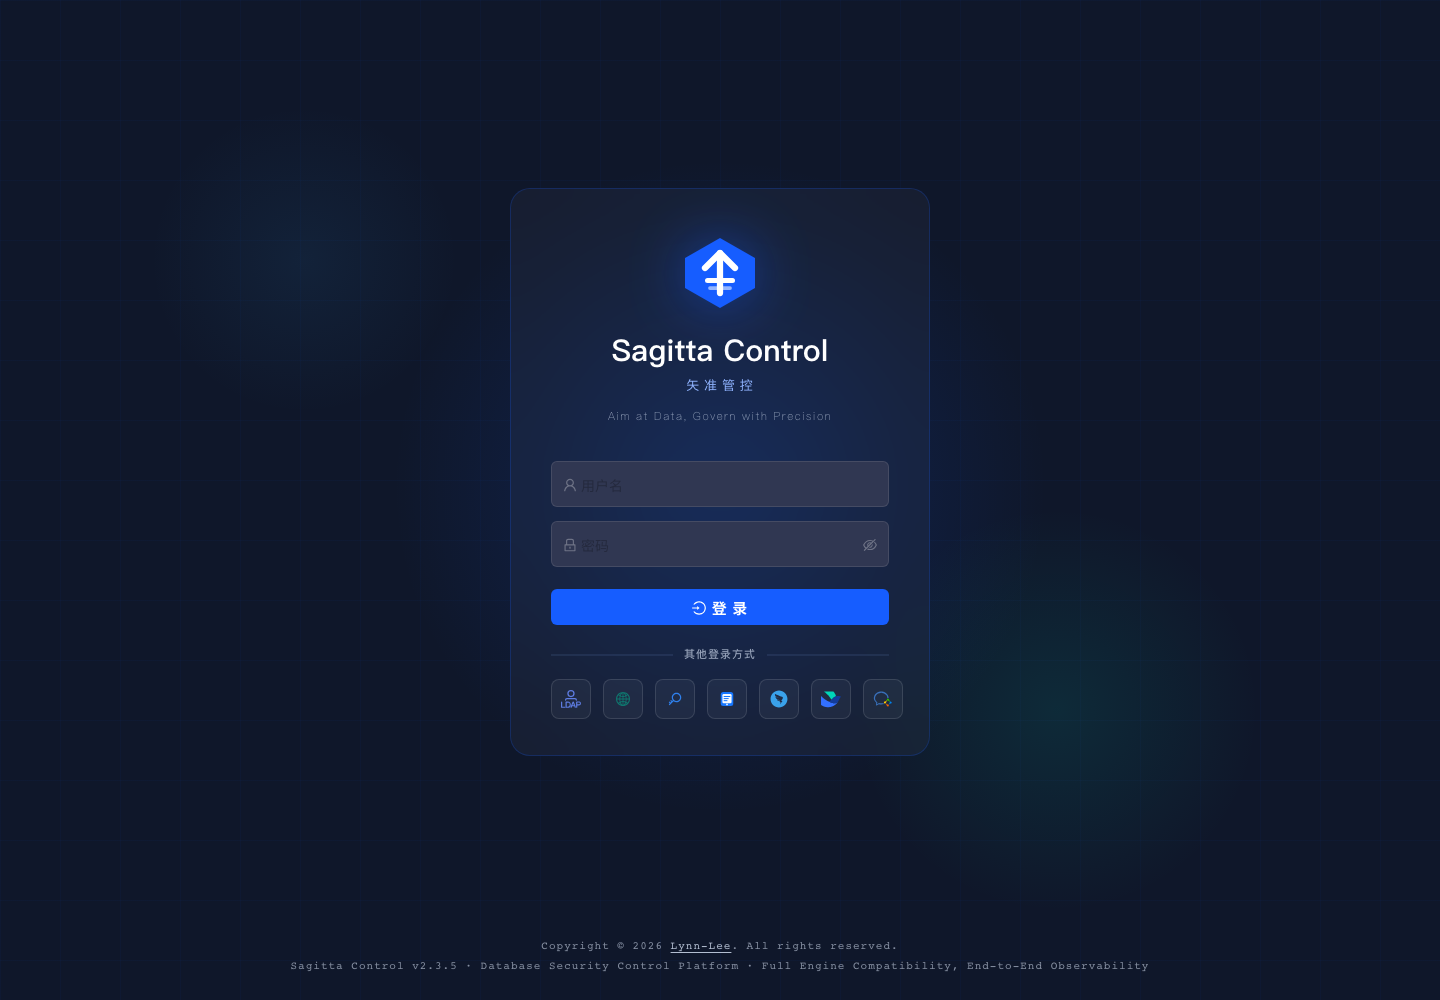
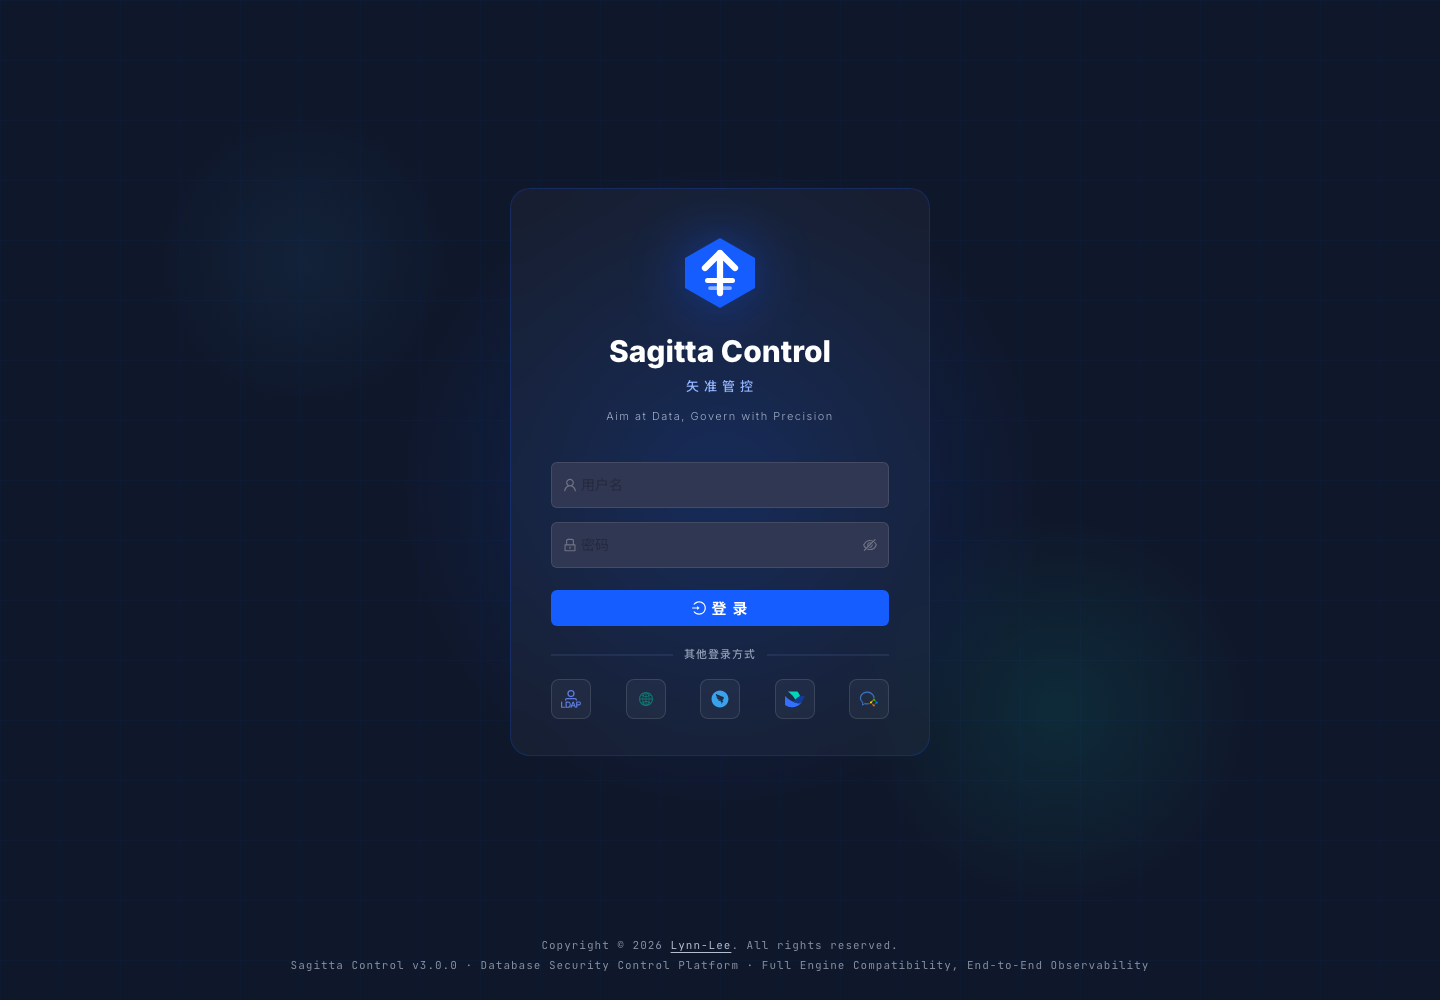
发布 Sagitta Control 3.0.0 版本基线

Changed region(s): [[0.4062, 0.341, 0.5938, 0.434], [0.4062, 0.682, 0.625, 0.713]]

diff --git a/backend/app/main.py b/backend/app/main.py
@@ -40,7 +40,7 @@ logger = logging.getLogger(__name__)
 async def lifespan(app: FastAPI):
     configure_logging()
     verify_startup_integrity()
-    logger.info("Sagitta Control starting env=%s version=2.3.5", settings.APP_ENV)
+    logger.info("Sagitta Control starting env=%s version=3.0.0", settings.APP_ENV)
     yield
     await engine.dispose()
     logger.info("Sagitta Control shutdown complete")
@@ -49,7 +49,7 @@ async def lifespan(app: FastAPI):
 app = FastAPI(
     title="Sagitta Control — 矢准数据库安全管控平台",
     description="企业级数据库安全管控、SQL 工单审核、在线查询、观测中心 API",
-    version="2.3.5",
+    version="3.0.0",
     docs_url="/docs" if settings.APP_ENV == "development" else None,
     redoc_url="/redoc" if settings.APP_ENV == "development" else None,
     lifespan=lifespan,
@@ -134,7 +134,7 @@ app.include_router(sd_router, prefix="/internal", tags=["内部接口"])
 
 @app.get("/health", tags=["健康检查"])
 async def health_check():
-    return {"status": "ok", "version": "2.3.5"}
+    return {"status": "ok", "version": "3.0.0"}
 
 
 @app.get("/", tags=["健康检查"])

diff --git a/backend/app/services/commercial_ops_metadata.py b/backend/app/services/commercial_ops_metadata.py
@@ -5,7 +5,7 @@ from __future__ import annotations
 from pathlib import Path
 from typing import Any
 
-COMMERCIAL_VERSION = "2.3.5"
+COMMERCIAL_VERSION = "3.0.0"
 DEMO_RESOURCE_GROUP_NAME = "commercial_trial_rg"
 DEMO_USER_GROUP_NAME = "commercial_trial_team"
 DEMO_APPROVAL_FLOW_NAME = "商业试用标准审批流"

diff --git a/backend/tests/integration/test_health.py b/backend/tests/integration/test_health.py
@@ -14,7 +14,7 @@ async def test_health_endpoint():
     assert response.status_code == 200
     data = response.json()
     assert data["status"] == "ok"
-    assert data["version"] == "2.3.5"
+    assert data["version"] == "3.0.0"
 
 
 @pytest.mark.asyncio

diff --git a/docs/public_commercial_delivery.md b/docs/public_commercial_delivery.md
@@ -35,10 +35,10 @@ screenshots/
   23-commercial-support.png
   24-audit-log.png
 releases/
-  v2.3.5/
-    Sagitta-Control-v2.3.5.zip
-    Sagitta-Control-v2.3.5.zip.sha256
-    Sagitta-Control-v2.3.5.zip.sig.json
+  v3.0.0/
+    Sagitta-Control-v3.0.0.zip
+    Sagitta-Control-v3.0.0.zip.sha256
+    Sagitta-Control-v3.0.0.zip.sig.json
 ```
 
 公开仓库根 `README.md` 由 Sagitta Control 私有源码仓库的商业发布 workflow 渲染生成，是客户下载、安装、授权和运维文档的第一入口。
@@ -80,8 +80,8 @@ releases/
 Sagitta Control 镜像发布到公开 GHCR 仓库，并只在部署包中引用完整版本号：
 
 ```text
-ghcr.io/<org>/sagitta-control-backend:2.3.5
-ghcr.io/<org>/sagitta-control-frontend:2.3.5
+ghcr.io/<org>/sagitta-control-backend:3.0.0
+ghcr.io/<org>/sagitta-control-frontend:3.0.0
 ```
 
 发布规则：
@@ -101,11 +101,11 @@ Sagitta Control 在专用公开仓库中按版本发版：
 
 ```text
 Repository: Lynn-Lee/Sagitta-Deploy
-Tag: v2.3.5
-Title: Sagitta Control v2.3.5
+Tag: v3.0.0
+Title: Sagitta Control v3.0.0
 Assets:
-  Sagitta-Control-v2.3.5.zip
-  Sagitta-Control-v2.3.5.zip.sha256
+  Sagitta-Control-v3.0.0.zip
+  Sagitta-Control-v3.0.0.zip.sha256
 ```
 
 Release 发布说明使用 [Sagitta Control 公开发布模板](release_templates/sagitta_control_public_release.md)。
@@ -113,11 +113,11 @@ Release 发布说明使用 [Sagitta Control 公开发布模板](release_template
 用户安装命令示例：
 
 ```bash
-wget https://github.com/Lynn-Lee/Sagitta-Deploy/releases/download/v2.3.5/Sagitta-Control-v2.3.5.zip
-wget https://github.com/Lynn-Lee/Sagitta-Deploy/releases/download/v2.3.5/Sagitta-Control-v2.3.5.zip.sha256
-sha256sum -c Sagitta-Control-v2.3.5.zip.sha256
-unzip Sagitta-Control-v2.3.5.zip
-cd Sagitta-Control-v2.3.5
+wget https://github.com/Lynn-Lee/Sagitta-Deploy/releases/download/v3.0.0/Sagitta-Control-v3.0.0.zip
+wget https://github.com/Lynn-Lee/Sagitta-Deploy/releases/download/v3.0.0/Sagitta-Control-v3.0.0.zip.sha256
+sha256sum -c Sagitta-Control-v3.0.0.zip.sha256
+unzip Sagitta-Control-v3.0.0.zip
+cd Sagitta-Control-v3.0.0
 
 cp .env.example .env
 vim .env
@@ -209,9 +209,9 @@ LICENSE_ALLOW_LEGACY_LICENSE_IMPORT=false
 
 私有仓库负责生成公开交付资产：
 
-1. 确认版本号，例如 `2.3.5`。
-2. 构建并推送 `ghcr.io/<org>/sagitta-control-backend:2.3.5`。
-3. 构建并推送 `ghcr.io/<org>/sagitta-control-frontend:2.3.5`。
+1. 确认版本号，例如 `3.0.0`。
+2. 构建并推送 `ghcr.io/<org>/sagitta-control-backend:3.0.0`。
+3. 构建并推送 `ghcr.io/<org>/sagitta-control-frontend:3.0.0`。
 4. 生成并签名商业 Manifest。
 5. 渲染客户部署包。
 6. 生成 zip 和 sha256。
@@ -221,13 +221,13 @@ LICENSE_ALLOW_LEGACY_LICENSE_IMPORT=false
 10. 生成前后端镜像 CycloneDX SBOM，签名前后端镜像、SBOM 和客户部署包。
 11. 执行 `scripts/validate-commercial-release-materials.sh`，确认 zip、sha256、客户包签名、前后端 SBOM、SBOM sha256 和 cosign bundle 均已生成且可校验。
 12. 同步部署文件到公开仓库 `Lynn-Lee/Sagitta-Deploy` 根目录。
-13. 在公开仓库创建或更新 `v2.3.5` Release。
+13. 在公开仓库创建或更新 `v3.0.0` Release。
 14. 上传 zip、sha256、签名文件和 SBOM。
 
 源码 CI 和商业发布机制与 DataFusionX 保持一致：
 
 - 推送到 `main` 时，只触发 `.github/workflows/ci.yml` 和 `.github/workflows/release-version-record.yml`，用于源码构建校验和版本记录，不构建或发布商业包。
-- 推送到 `release/**` 时，由 `.github/workflows/commercial-release.yml` 生成 RC 候选版本，例如 `2.3.5-rc.123.abcdef0`，并推送固定版本商业镜像，但不默认同步公开交付仓库。
+- 推送到 `release/**` 时，由 `.github/workflows/commercial-release.yml` 生成 RC 候选版本，例如 `3.0.0-rc.123.abcdef0`，并推送固定版本商业镜像，但不默认同步公开交付仓库。
 - 推送正式 tag `vX.Y.Z` 时，生成正式版本 `X.Y.Z`，并同步到 `Lynn-Lee/Sagitta-Deploy`。
 - 手动触发商业 workflow 时，如果填写 `version`，生成指定正式版本；如果留空，生成快照版本；默认不发布到公开交付仓库，只有显式勾选发布时才同步公开发布仓库。
 - 工作流会推送公开镜像到 `ghcr.io/lynn-lee/sagitta-control-backend:<version>` 和 `ghcr.io/lynn-lee/sagitta-control-frontend:<version>`。
@@ -248,16 +248,16 @@ PUBLIC_RELEASES_TOKEN
 现有脚本入口：
 
 ```bash
-VERSION=2.3.5 \
+VERSION=3.0.0 \
 IMAGE_REPOSITORY=ghcr.io/<org>/sagitta-control \
 MANIFEST_PRIVATE_KEY_FILE=/path/to/manifest_private_key \
 ./scripts/build-commercial-images.sh
 
 python scripts/render-customer-package.py \
-  --version 2.3.5 \
+  --version 3.0.0 \
   --image-repository ghcr.io/<org>/sagitta-control \
   --output-dir dist-commercial \
-  --package-name Sagitta-Control-v2.3.5
+  --package-name Sagitta-Control-v3.0.0
 ```
 
 `dist-commercial/` 是商业包渲染输出目录，已在源码仓库中忽略；发布资产以 workflow、Release 下载资产和公开交付仓库为准，不把本地生成包提交回源码仓库。
@@ -300,10 +300,10 @@ Product Code: sagitta-control
 Product Name: Sagitta Control
 Edition: enterprise
 Trial Days: 30
-Release Tag: v2.3.5
-Package Name: Sagitta-Control-v2.3.5.zip
-Backend Image: ghcr.io/<org>/sagitta-control-backend:2.3.5
-Frontend Image: ghcr.io/<org>/sagitta-control-frontend:2.3.5
+Release Tag: v3.0.0
+Package Name: Sagitta-Control-v3.0.0.zip
+Backend Image: ghcr.io/<org>/sagitta-control-backend:3.0.0
+Frontend Image: ghcr.io/<org>/sagitta-control-frontend:3.0.0
 License Server: License-Server-Center
 Expired Behavior: 保留登录和授权管理入口，业务 API 阻断
 ```

diff --git a/docs/operations_guide.md b/docs/operations_guide.md
@@ -1,7 +1,7 @@
 # Sagitta Control 运维文档
 
-> 文档版本：v2.3.5
-> 适用版本：Sagitta Control v2.3.5 商业部署版 + v2-lite 授权体系
+> 文档版本：v3.0.0
+> 适用版本：Sagitta Control v3.0.0 商业部署版 + v2-lite 授权体系
 > 目标读者：运维工程师、DBA、DevOps、系统管理员
 
 ## 1. 运维范围
@@ -249,7 +249,7 @@ COMPOSE_PROJECT_NAME=<project_name> BACKUP_DIR=/data/sagitta-control/backups bas
 ```bash
 bash deploy/update-prod.sh                  # 默认部署 origin/main
 bash deploy/update-prod.sh --ref origin/main
-bash deploy/update-prod.sh --ref v2.3.5
+bash deploy/update-prod.sh --ref v3.0.0
 bash deploy/update-prod.sh --ref <commit_sha>
 bash deploy/update-prod.sh --full           # 强制全量构建并重建应用服务
 ```
@@ -465,7 +465,7 @@ scripts/ga-acceptance-check.py --base-url http://127.0.0.1:8000 \
 包含真实客户 ID、域名、公网 IP、License、token、部署指纹、内部验收记录、数据库
 连接信息或客户现场截图。
 
-当前商业部署版本为 `2.3.5`。Sagitta Control 授权项目码当前阶段固定为 `sagitta-control`，源码部署模板和客户包模板默认授权服务地址为 `https://license.loveai.asia`，在线激活和联网刷新请求会自动携带 `project=sagitta-control` 与兼容字段 `product=sagitta-control`。验收时应在授权管理页确认 `授权项目：Sagitta Control（sagitta-control）`，输入正式客户 ID 后复制“正式激活部署指纹”，并在统一授权中心 `License-Server-Center` 保留对应客户的激活、刷新和状态变更记录。HTTP 试用部署下浏览器可能限制 Clipboard API，授权管理页会自动使用降级复制方式；验收时仍建议确认剪贴板内容与页面展示的指纹一致。
+当前商业部署版本为 `3.0.0`。Sagitta Control 授权项目码当前阶段固定为 `sagitta-control`，源码部署模板和客户包模板默认授权服务地址为 `https://license.loveai.asia`，在线激活和联网刷新请求会自动携带 `project=sagitta-control` 与兼容字段 `product=sagitta-control`。验收时应在授权管理页确认 `授权项目：Sagitta Control（sagitta-control）`，输入正式客户 ID 后复制“正式激活部署指纹”，并在统一授权中心 `License-Server-Center` 保留对应客户的激活、刷新和状态变更记录。HTTP 试用部署下浏览器可能限制 Clipboard API，授权管理页会自动使用降级复制方式；验收时仍建议确认剪贴板内容与页面展示的指纹一致。
 
 离线授权必须使用 challenge-response：客户现场在授权管理页生成 Challenge，商务/运营侧通过 `tools/license_issue.py --challenge-file <challenge.json> --response-out <response.json>` 签发响应文件，再由客户导入响应文件。生产环境默认 `LICENSE_ALLOW_LEGACY_LICENSE_IMPORT=false`，不接受未绑定 Challenge 的裸 License JSON。
 

diff --git a/docs/sagitta_control_prd.md b/docs/sagitta_control_prd.md
@@ -1,7 +1,7 @@
 # Sagitta Control 矢准数据库安全管控平台产品设计文档
 
-> 文档版本：v2.3.5
-> 适用版本：Sagitta Control v2.3.5 商业部署版 + v2-lite 授权体系
+> 文档版本：v3.0.0
+> 适用版本：Sagitta Control v3.0.0 商业部署版 + v2-lite 授权体系
 > 目标读者：客户决策人、售前、产品经理、实施工程师、DBA、研发负责人、审计负责人
 
 ## 1. 产品定位
@@ -320,7 +320,7 @@ Sagitta Control 对外投放时建议提供以下交付件：
 - 运维管理手册。
 - 固定版本 Docker/Helm 客户部署包和 License 激活信息。
 
-当前商业部署版本为 `2.3.5`。商业授权统一接入 `License-Server-Center`，客户包模板默认授权服务地址为 `https://license.loveai.asia`。Sagitta Control 使用授权项目码 `sagitta-control`，展示名称为 `Sagitta Control`。在线激活和联网刷新由后端自动提交 `project=sagitta-control` 与兼容字段 `product=sagitta-control`，客户无需在页面手工填写项目名。授权管理页支持根据客户 ID 预览正式激活部署指纹，运营侧应使用该指纹在用户授权中心生成激活码；复制指纹时兼容 HTTPS 剪贴板能力和 HTTP 试用部署降级复制。
+当前商业部署版本为 `3.0.0`。商业授权统一接入 `License-Server-Center`，客户包模板默认授权服务地址为 `https://license.loveai.asia`。Sagitta Control 使用授权项目码 `sagitta-control`，展示名称为 `Sagitta Control`。在线激活和联网刷新由后端自动提交 `project=sagitta-control` 与兼容字段 `product=sagitta-control`，客户无需在页面手工填写项目名。授权管理页支持根据客户 ID 预览正式激活部署指纹，运营侧应使用该指纹在用户授权中心生成激活码；复制指纹时兼容 HTTPS 剪贴板能力和 HTTP 试用部署降级复制。
 
 v2.1 商业版重点补强 Oracle 可观测性：实时会话支持 RAC 实例号、OS 进程、module/action、client identifier、等待分类、阻塞实例、PGA 和 SQL child 信息；SQL 洞察新增 `oracle_sql_monitor`、`oracle_awr_sqlstat`、`oracle_cursor_cache` 来源，并按 SQL Monitor、AWR、游标缓存、当前会话顺序自动降级。Oracle 监控保持只读诊断边界，权限不足时返回 warning，不引入破坏性诊断动作。
 

diff --git a/README.md b/README.md
@@ -3,7 +3,7 @@
 > 企业级多引擎数据库安全管控平台
 > 矢向数据，精准管控
 
-Sagitta Control 是面向企业数据库安全管控场景的统一平台，覆盖数据库实例管理、SQL 工单审批上线、在线查询、数据字典、数据脱敏、SQL 洞察、运行态诊断、数据归档、审计追踪和主动通知等核心能力。平台基于 Archery v1.14.0 深度重构，当前正式版定位为 **v2.3.5 商业部署版 + v2-lite 授权体系**。
+Sagitta Control 是面向企业数据库安全管控场景的统一平台，覆盖数据库实例管理、SQL 工单审批上线、在线查询、数据字典、数据脱敏、SQL 洞察、运行态诊断、数据归档、审计追踪和主动通知等核心能力。平台基于 Archery v1.14.0 深度重构，当前正式版定位为 **v3.0.0 商业部署版 + v2-lite 授权体系**。
 
 > 品牌口径：对外产品名统一为 `Sagitta Control`，中文软著/推广名称建议使用 `矢准数据库安全管控平台软件`；技术 slug、授权项目码、镜像名、Helm chart 和客户包名称统一使用 `sagitta-control` / `Sagitta-Control`。
 
@@ -179,7 +179,7 @@ npm run build
 
 ## 商业交付
 
-当前源码版本对应商业部署版本 `2.3.5`。Sagitta Control 的商业部署包由本源码仓库的发布流程生成，并同步到 [Lynn-Lee/Sagitta-Deploy](https://github.com/Lynn-Lee/Sagitta-Deploy) 公开部署仓库。
+当前源码版本对应商业部署版本 `3.0.0`。Sagitta Control 的商业部署包由本源码仓库的发布流程生成，并同步到 [Lynn-Lee/Sagitta-Deploy](https://github.com/Lynn-Lee/Sagitta-Deploy) 公开部署仓库。
 
 商业交付包含固定版本 Docker/Helm 部署包、License 授权、客户包签名、SBOM、上线验收、升级回滚和运维文档。源码 `main` 分支只触发源码 CI 和版本记录；`release/**` 分支生成 RC 候选包；正式 `vX.Y.Z` 标签或显式手动发布才同步公开部署仓库。CI 与商业发布 workflow 均使用 `ubuntu-latest` GitHub-hosted runner；商业部署包默认不上传为 Actions artifact，避免大包占用制品存储配额。
 

diff --git a/AGENT.md b/AGENT.md
@@ -31,7 +31,7 @@
 - 默认对外品牌名称为 `Sagitta Control`，中文产品名为 `矢准数据库安全管控平台`，软著备案推荐名称为 `矢准数据库安全管控平台软件`。
 - 顶部导航品牌区默认只展示 Logo 图标和英文名称 `Sagitta Control`，不再显示中文副标；不要再使用旧中文副标。
 - 登录页 Logo 下方展示中文简称 `矢准管控`，视觉文案统一为 `矢 准 管 控`，默认使用精简品牌语：`Aim at Data, Govern with Precision`，底部版权署名为 `Lynn-Lee`，并链接到 `https://github.com/Lynn-Lee`。
-- 登录页底部版本描述统一为 `Sagitta Control v2.3.5 · Database Security Control Platform · Full Engine Compatibility, End-to-End Observability`。
+- 登录页底部版本描述统一为 `Sagitta Control v3.0.0 · Database Security Control Platform · Full Engine Compatibility, End-to-End Observability`。
 - 如修改品牌、登录页、导航、系统配置展示或默认文案，必须同步更新 `docs/sagitta_control_prd.md`、`README.md` 或其他相关文档。
 - 页面、菜单、按钮、表单控件、弹窗和抽屉等前端界面必须保持统一字体和字号体系，优先复用 Ant Design 主题 Token 或项目已有全局样式，不得在局部页面随意新增不一致的字体、字号或行高。
 - 前端所有按钮必须遵循统一按钮规划：按钮高度保持统一；按钮宽度根据图标和文字内容自适应，不固定成同一长度；按钮内容统一采用“图标 + 文字”形式，图标需按功能选择最合适的语义图标；按钮文字颜色、图标颜色和背景色需与功能语义及主题色协调。

diff --git a/docs/user_manual.md b/docs/user_manual.md
@@ -1,7 +1,7 @@
 # Sagitta Control 用户使用手册
 
-> 文档版本：v2.3.5
-> 适用版本：Sagitta Control v2.3.5 商业部署版 + v2-lite 授权体系
+> 文档版本：v3.0.0
+> 适用版本：Sagitta Control v3.0.0 商业部署版 + v2-lite 授权体系
 > 目标读者：研发工程师、DBA、系统管理员、安全审计员
 
 本文截图来自演示环境，实际页面可能因版本、角色权限和客户配置略有差异。
